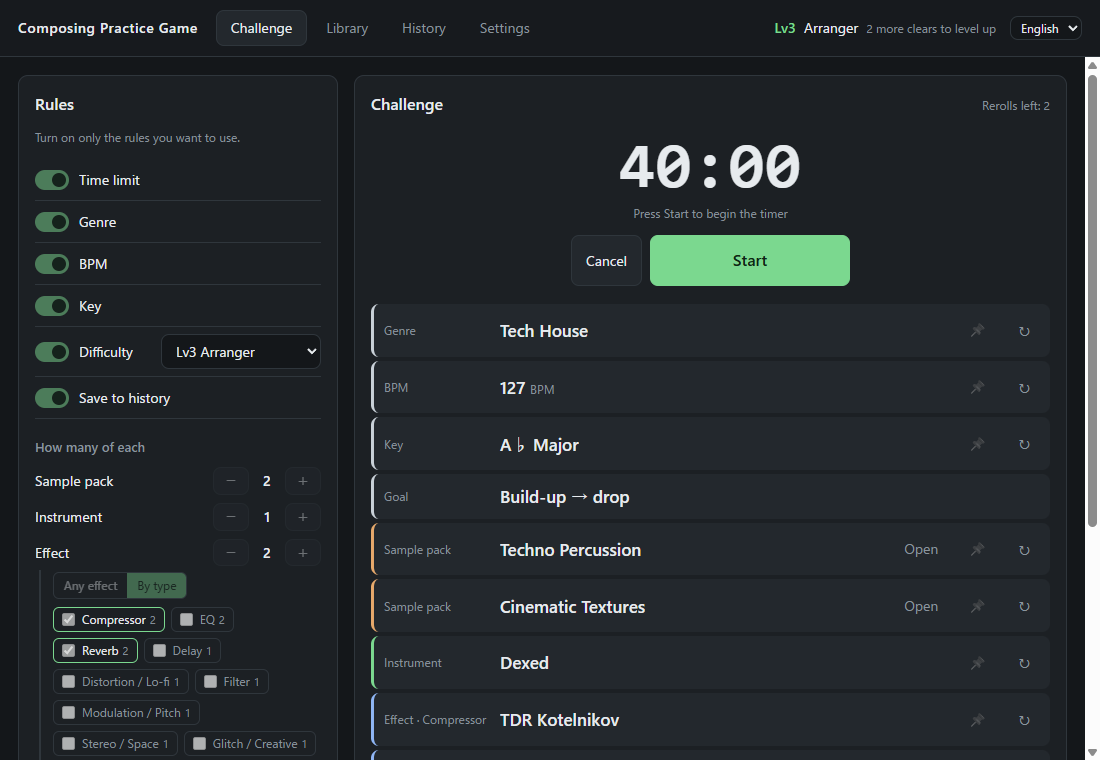
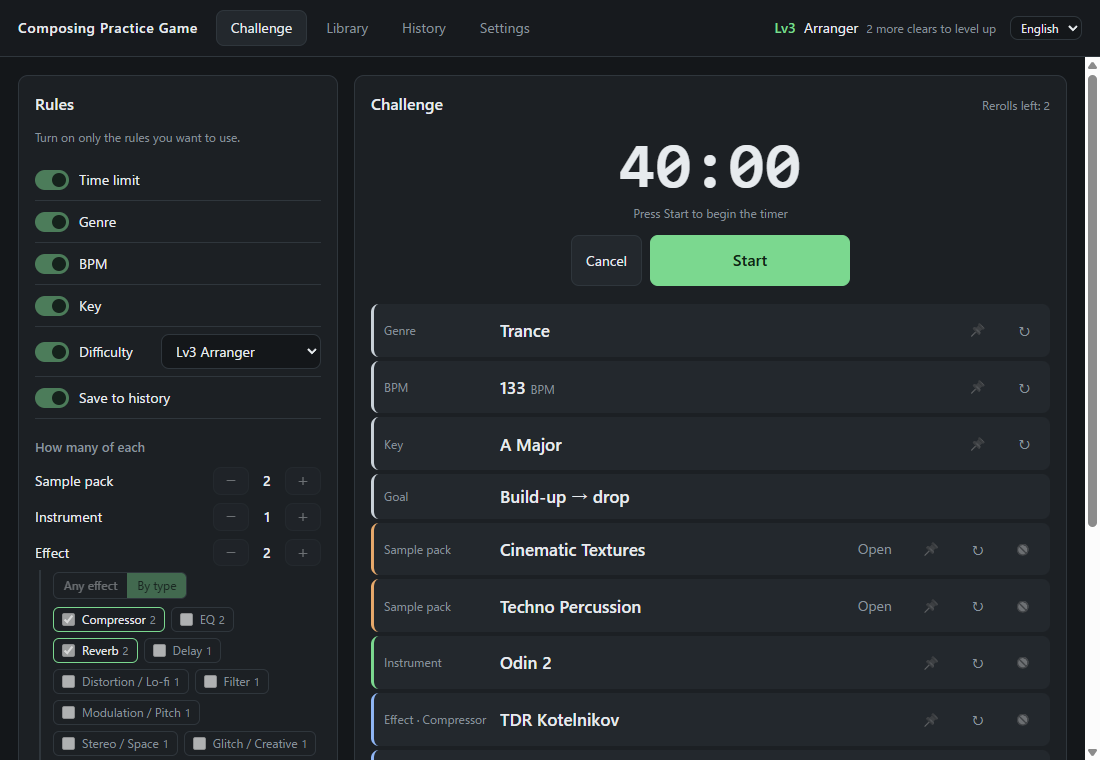
exe で配布できるようにした（インストール版・ポータブル版）
- build.ps1 / build/package.json で electron-builder を使って exe を作る
- 配布版の設定・履歴の保存先（インストール版は %APPDATA%、ポータブル版は exe の隣）
- アプリのアイコンを追加
- setup.ps1 の Electron を 45.3.4 に固定
- 英語名の起動ファイル Launch.vbs を追加
- README にダウンロード方法を追加、スクリーンショットを撮り直し

diff --git a/app/main.js b/app/main.js
@@ -3,8 +3,17 @@ const fs = require('fs/promises');
 const path = require('path');
 const { scanAll } = require('./scanner');
 
-// 設定・履歴は本体と同じ場所の data フォルダに保存する（Googleドライブで同期される）
-const DATA_DIR = process.env.SRG_DATA || path.join(__dirname, '..', 'data');
+// 設定・履歴を保存する data フォルダ
+// - 起動.vbs から動かす時：app フォルダの隣（Googleドライブなどで同期できる）
+// - ポータブル版の exe：その exe と同じフォルダ（PORTABLE_EXECUTABLE_DIR は electron-builder が渡す）
+// - インストール版：ユーザーごとのアプリ用フォルダ（%APPDATA% の下）
+function dataDir() {
+  if (process.env.SRG_DATA) return process.env.SRG_DATA;
+  if (process.env.PORTABLE_EXECUTABLE_DIR) return path.join(process.env.PORTABLE_EXECUTABLE_DIR, 'data');
+  if (app.isPackaged) return path.join(app.getPath('userData'), 'data');
+  return path.join(__dirname, '..', 'data');
+}
+const DATA_DIR = dataDir();
 const DATA_FILES = new Set(['settings', 'library', 'history']);
 
 let win;
@@ -19,6 +28,7 @@ function createWindow() {
     backgroundColor: '#14171a',
     title: '作曲練習ゲーム',
     autoHideMenuBar: true,
+    icon: path.join(__dirname, 'icon.png'),
     webPreferences: {
       preload: path.join(__dirname, 'preload.js'),
       contextIsolation: true,

diff --git a/使い方.md b/使い方.md
@@ -9,6 +9,8 @@
 - 初回だけ、本体（Electron）がない場合は自動でダウンロードします（`%LOCALAPPDATA%\SakkyokuRenshuGame\runtime` に入ります。Googleドライブには入れません）。
 - 手動で入れ直す時は `setup.ps1` を実行します。
 
+配布版（exe）を使う場合は、GitHub の Releases からインストール版かポータブル版をダウンロードして起動します（Node.js は不要です）。
+
 ## 遊び方
 
 1. **お題** タブの左で、使う縛りをオン/オフします。
